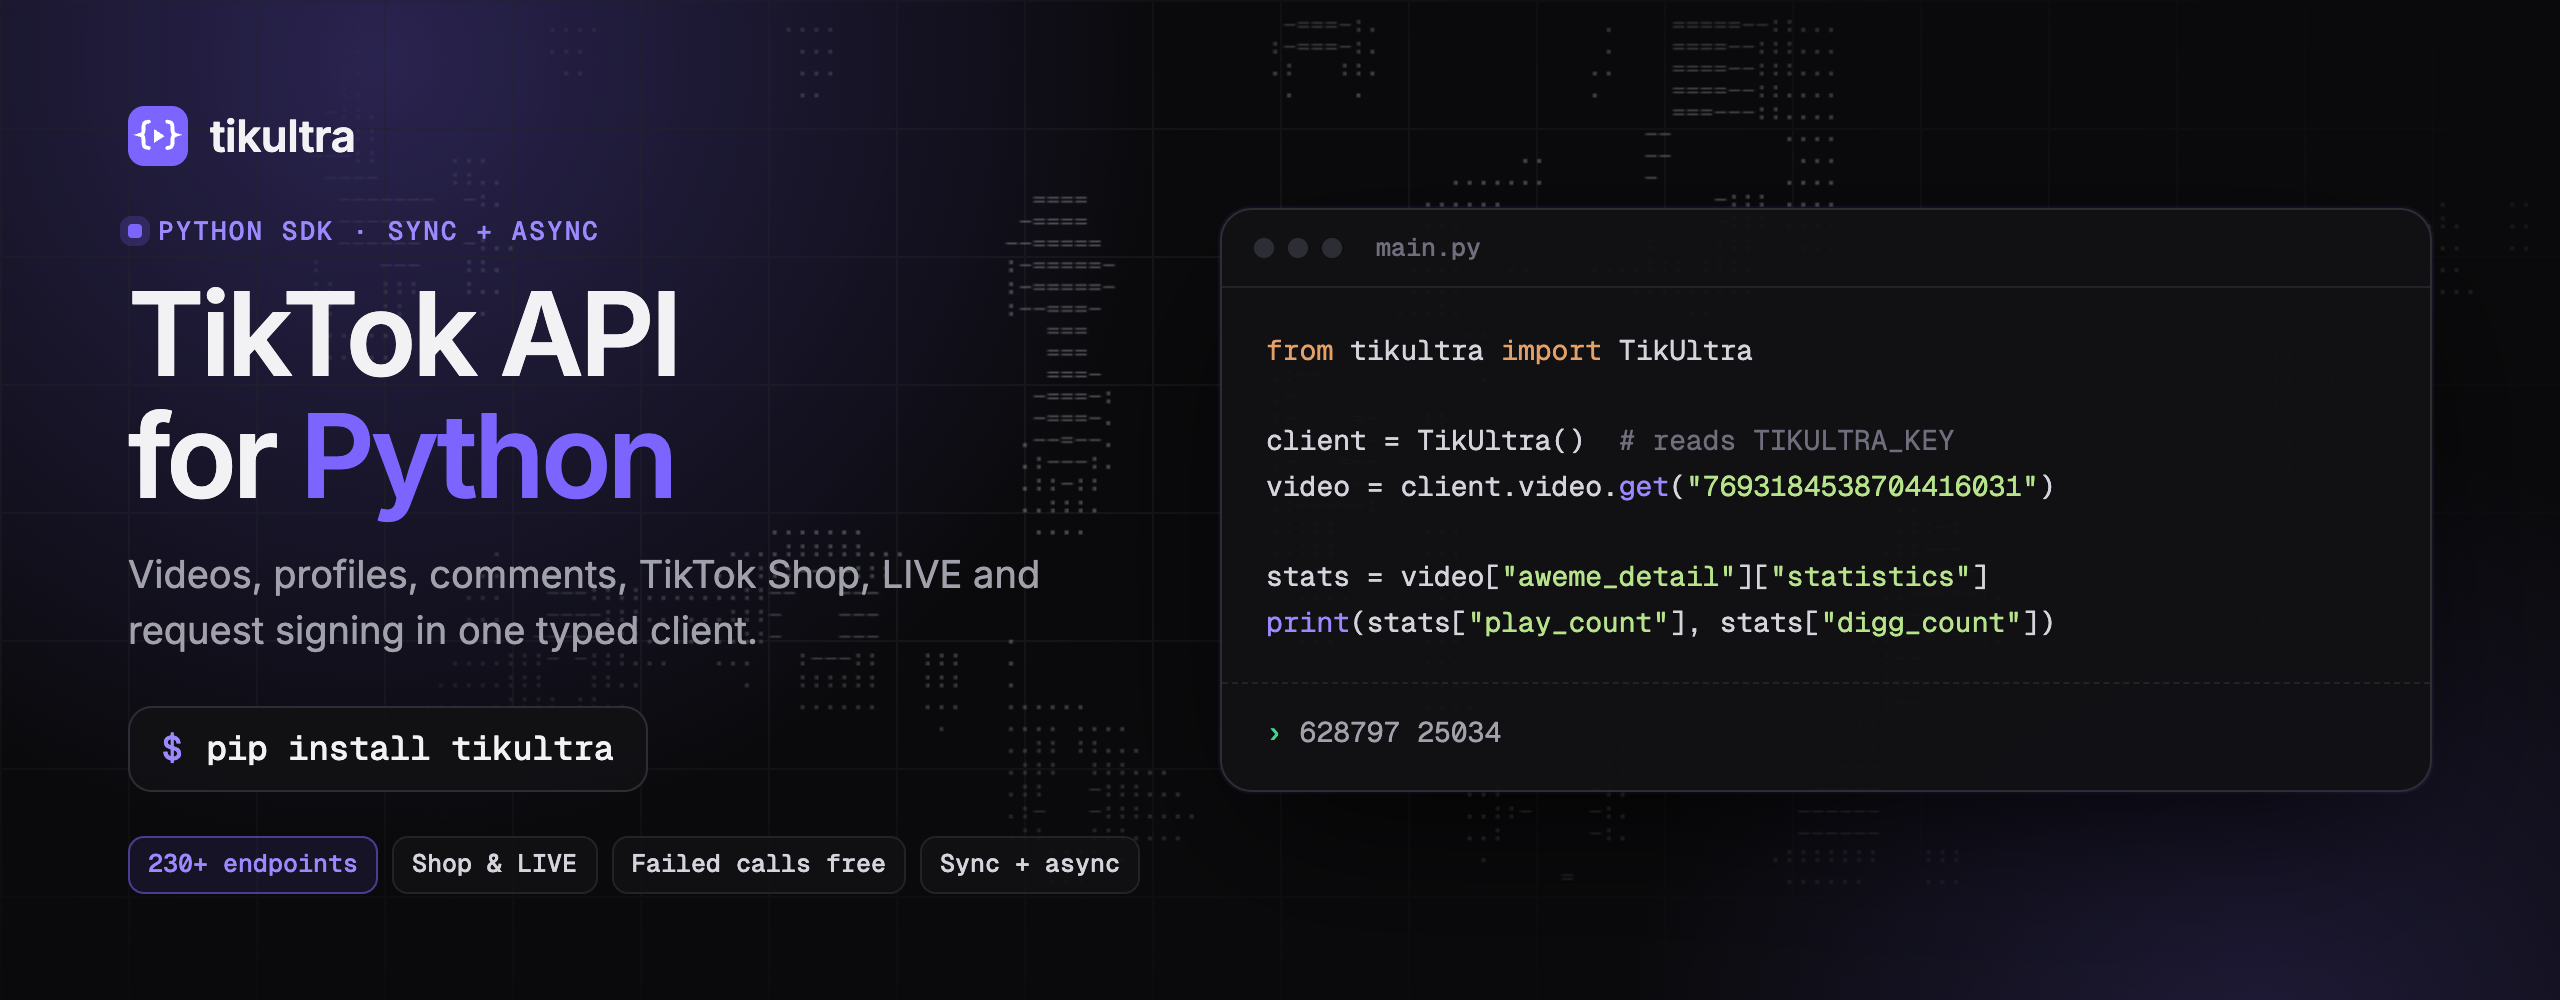
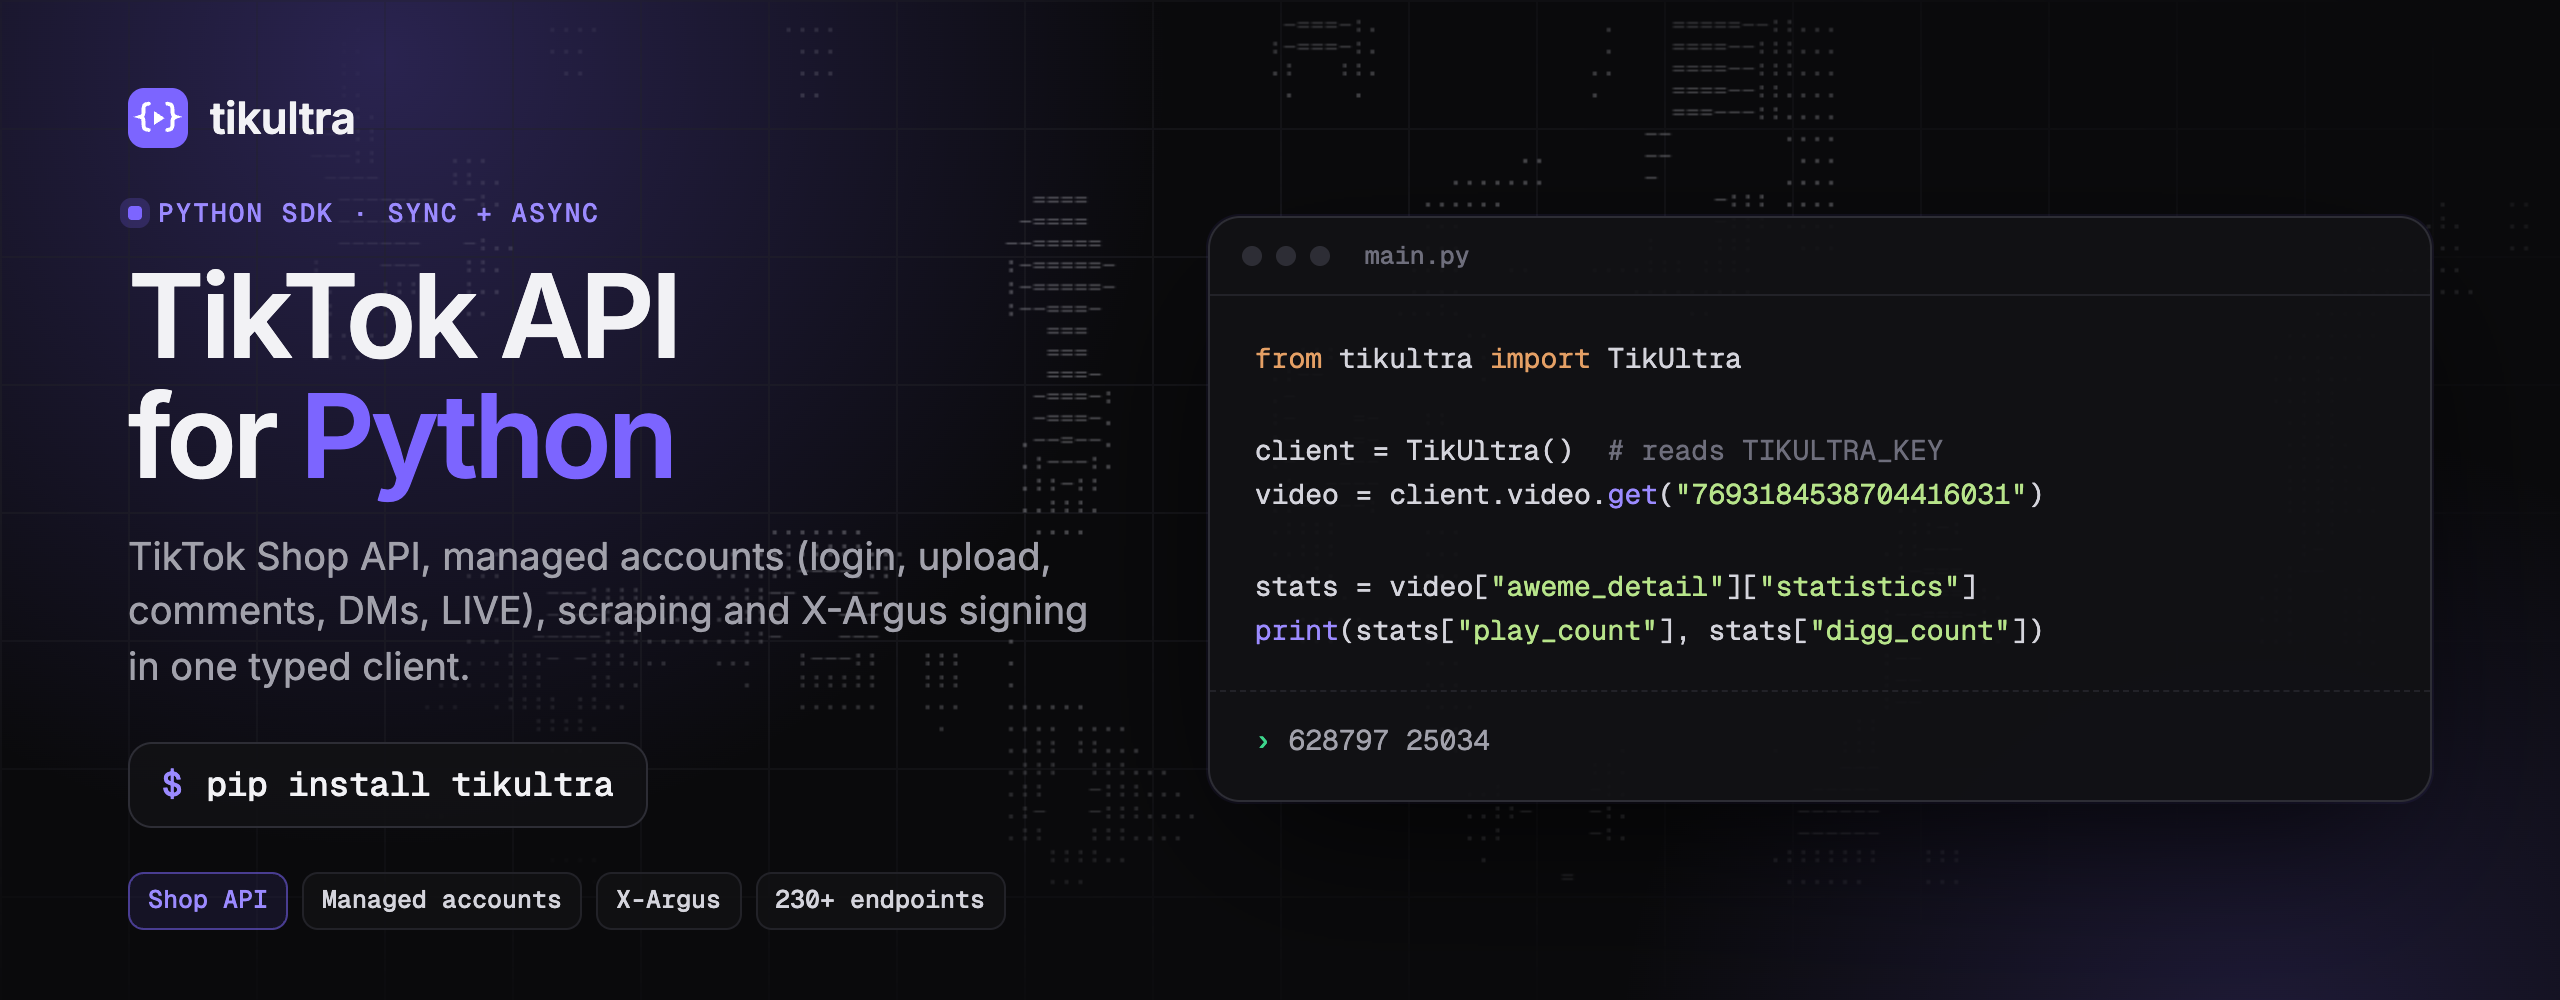
Feature the TikTok Shop API and managed accounts; point links at tikultra-sdk

diff --git a/README.md b/README.md
@@ -1,6 +1,6 @@
 <p align="center">
   <a href="https://tikultra.com/tiktok-api?utm_source=github&utm_medium=readme&utm_campaign=python">
-    <img src="assets/banner.png" alt="TikTok API for Python — tikultra SDK: videos, profiles, comments, TikTok Shop, LIVE and request signing" width="100%">
+    <img src="assets/banner.png" alt="TikTok API for Python — TikTok Shop API, managed TikTok accounts, scraping and X-Argus signing (tikultra SDK)" width="100%">
   </a>
 </p>
 
@@ -8,7 +8,7 @@
 
 <p align="center">
   The Python client for <a href="https://tikultra.com/tiktok-api">Tikultra</a>, an unofficial TikTok API built on TikTok’s native mobile app API.<br>
-  Scrape videos, profiles, comments, followers and search, read <b>TikTok Shop</b> and <b>LIVE</b>, download without watermark, and sign mobile requests — sync or async, fully typed.
+  <b>TikTok Shop API</b>, <b>managed TikTok accounts</b> (login, upload, comments, DMs, LIVE) and scraping for videos, profiles, comments, followers and search — plus native <b>X-Argus</b> signing. Sync or async, fully typed.
 </p>
 
 <p align="center">
@@ -24,14 +24,17 @@
   <a href="https://tikultra.com/docs/python-sdk">Docs</a> ·
   <a href="https://tikultra.com/endpoints">All endpoints</a> ·
   <a href="https://tikultra.com/playground">Playground</a> ·
-  <a href="https://github.com/tikultra/tiktok-api-node">Node.js SDK</a>
+  <a href="https://github.com/xtekky/tikultra-ts-sdk">Node.js SDK</a>
 </p>
 
 ---
 
 ## Why this TikTok API
 
-- **230+ endpoints on one key** — videos, profiles, posts, comments, followers, search, hashtags, sounds, TikTok Shop, LIVE, Douyin and more.
+- **Managed TikTok accounts** — sign in, upload, comment, DM and go LIVE on the accounts you own, each on its own isolated device. No other TikTok API offers this.
+- **TikTok Shop API** — full product pages (every SKU price, voucher, shipping promise), sellers, reviews, creator showcases, LIVE shopping bags and visual product search.
+- **230+ endpoints on one key** — videos, profiles, posts, comments, followers, search, hashtags, sounds, LIVE, Douyin and more.
+- **Native mobile signing** — X-Argus, X-Gorgon, X-Ladon and X-Khronos for 8 TikTok apps in under a millisecond.
 - **No browsers, proxies or signatures to maintain** — requests go through TikTok’s mobile API from managed devices; you get JSON.
 - **Failed calls are free** — you only pay for successful calls. Start with 500 free requests, no card.
 - **Sync and async** — `TikUltra` and `AsyncTikUltra` on `httpx`, typed (`py.typed`), Python 3.10+.
@@ -64,7 +67,71 @@ profile = client.user.profile("tiktok")
 print(profile["user"]["follower_count"])
 ```
 
-## What you can do
+## Managed TikTok accounts (the part nobody else has)
+
+Run the TikTok accounts you own from code. Each connected account gets its own dedicated, isolated mobile device context, so it behaves like one phone, not a script.
+
+| Action | Method | Guide |
+| :--- | :--- | :--- |
+| Sign in with a one-time email code | `client.account.login_otp_send()`, `client.account.login_otp_verify()` | [TikTok login API](https://tikultra.com/tiktok-login-api) |
+| Import a session you already have | `client.account.import_session()` | [Managed accounts](https://tikultra.com/tiktok-managed-accounts) |
+| Upload and publish videos and photo carousels | `client.account.upload_video()`, `client.account.upload_slideshow()` | [TikTok upload API](https://tikultra.com/tiktok-upload-api) |
+| Reply to comments on your posts | `client.account.comment()` | [TikTok comment API](https://tikultra.com/tiktok-comment-api) |
+| Read and answer DMs | `client.account.dm_send()` | [TikTok DM API](https://tikultra.com/tiktok-dm-api) |
+| Go LIVE with an RTMP URL and stream key | `client.account.live_start()`, `client.account.live_ping()` | [TikTok stream key](https://tikultra.com/tiktok-stream-key) |
+| Read Creator Studio analytics | `client.account.studio_overview()` | [Managed accounts](https://tikultra.com/tiktok-managed-accounts) |
+
+```python
+from tikultra import TikUltra
+
+client = TikUltra()
+
+# 1. Sign in to an account you own (or: client.account.import_session("<sessionid>"))
+ctx = client.account.login_otp_send("you@yourbrand.com")
+acc = client.account.login_otp_verify("you@yourbrand.com", "123456", context_id=ctx["context_id"])
+account_id = acc["account_id"]
+
+# 2. Publish a video in one call
+post = client.account.upload_video(
+    account_id=account_id,
+    file="./launch.mp4",
+    caption="Launch day #desksetup",
+    visibility="public",
+)
+print(post["share_url"])
+
+# 3. Answer comments
+client.account.comment(account_id, post["aweme_id"], "Thanks for watching!")
+
+# 4. Go LIVE from OBS or ffmpeg
+room = client.account.live_start(account_id, "Unboxing the new keyboards")
+print(room["rtmp_push_url"], room["stream_key"])
+```
+
+Managed accounts are on Starter and up. They run only on accounts you own or are authorized to manage.
+
+## TikTok Shop API
+
+Read TikTok Shop the way shoppers see it in the app — any product, seller, review, creator showcase or LIVE shopping bag. No seller account, no Partner Center approval.
+
+```python
+hits = client.shop.search("mechanical keyboard")              # product cards with product_id, seller_id
+product_id = hits["products"][0]["product_id"]
+
+pdp = client.shop.pdp(product_id)                             # SKUs, prices, vouchers, shipping, rating
+print(pdp["data"]["reviews"]["product_rating"], pdp["data"]["reviews"]["review_count"])
+
+for page in client.paginate("/v1/shop/reviews", params={"product_id": product_id}, max_pages=3):
+    for r in page["reviews"]:
+        print(r["review"]["display_text"][:80])
+
+seller = client.shop.seller(hits["products"][0]["seller_id"])  # a store's catalog
+matches = client.search.vision(image_url="https://example.com/keyboard.jpg")  # find products from a photo
+```
+
+Guides: [TikTok Shop API](https://tikultra.com/tiktok-shop-api) · [TikTok Shop scraper](https://tikultra.com/tiktok-shop-scraper) · [Product data](https://tikultra.com/tiktok-shop-product-api) · [Reviews](https://tikultra.com/tiktok-shop-reviews-scraper) · [Shop analytics](https://tikultra.com/tiktok-shop-analytics-api)
+
+## Everything else you can do
 
 | Task | Method | Guide |
 | :--- | :--- | :--- |
@@ -180,7 +247,7 @@ The client retries `429`, `502`, `503` and `504` with backoff (honouring `Retry-
 
 ## Related
 
-- [tiktok-api-node](https://github.com/tikultra/tiktok-api-node) — the same API for Node.js, Bun, Deno and edge runtimes
+- [tikultra-ts-sdk](https://github.com/xtekky/tikultra-ts-sdk) — the same API for Node.js, Bun, Deno and edge runtimes
 - [TikTok API guides](https://tikultra.com/tiktok-api) · [Blog](https://tikultra.com/blog) · [llms.txt](https://tikultra.com/llms.txt)
 
 ## License
